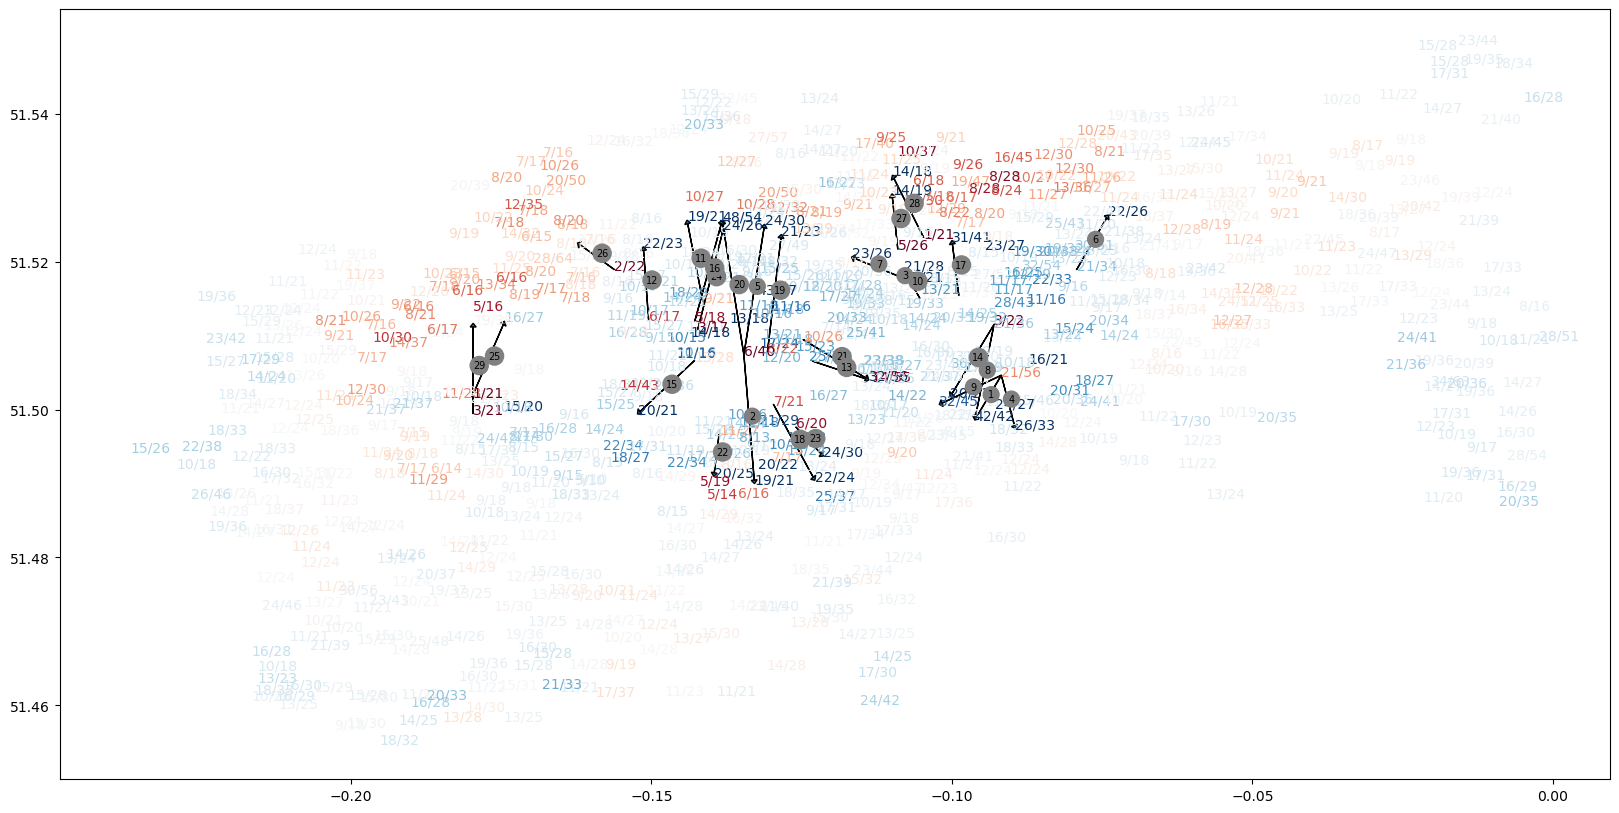
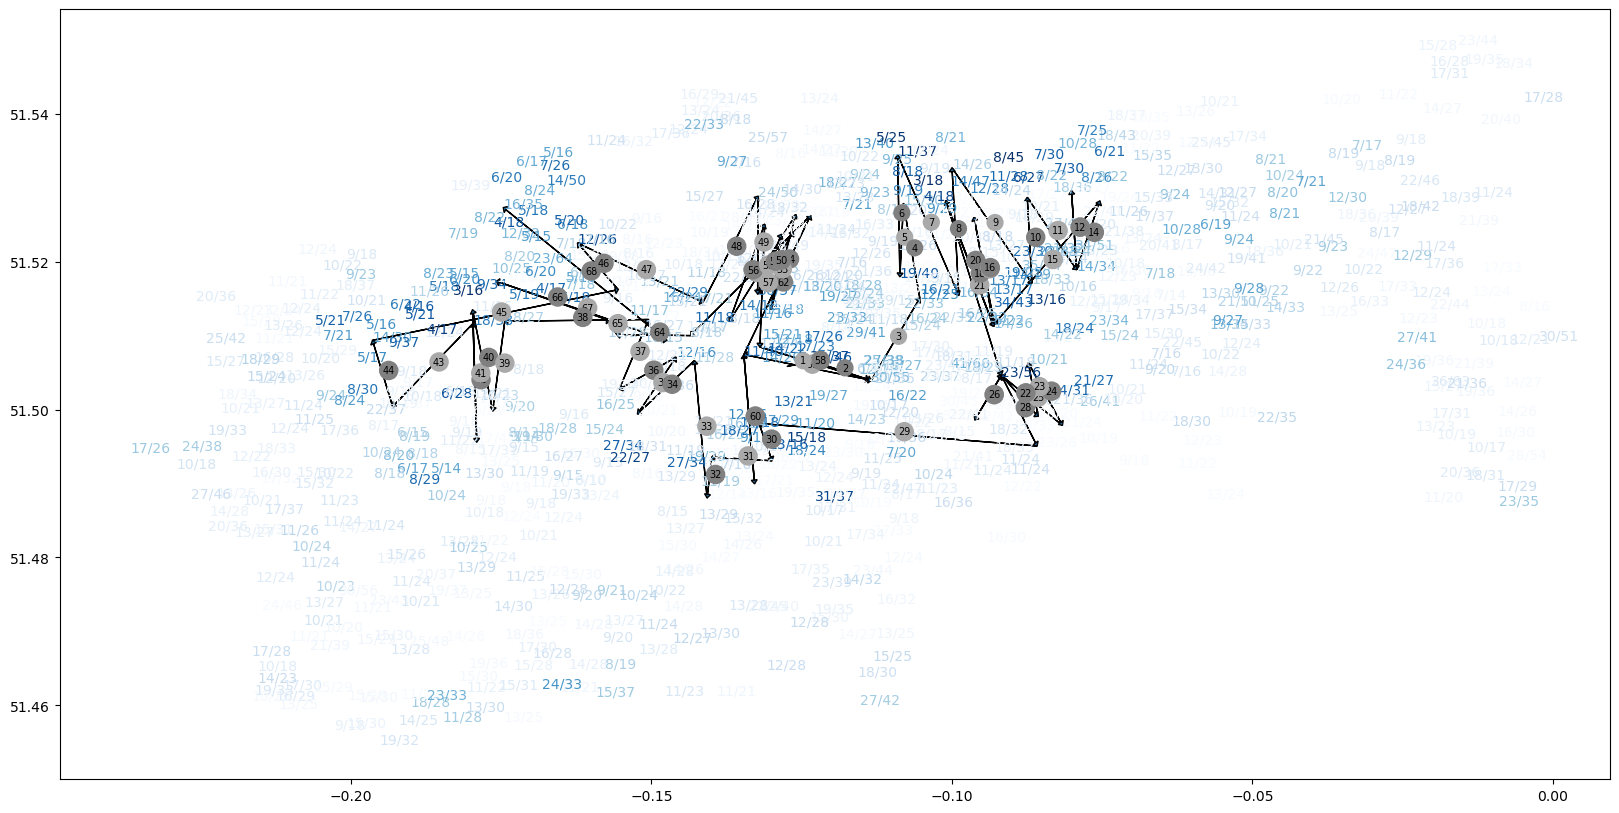
docs: Updated REAME

diff --git a/README.md b/README.md
@@ -2,8 +2,8 @@
 This repository includes the ongoing project of analysing the [BigQuery Santander Cycle Hire Scheme](https://console.cloud.google.com/marketplace/product/greater-london-authority/london-bicycles) dataset to gather some insights and provide useful recommendations to the Greater London Authority. The breakdown provided below depicts the tasks completed so far and the associated files used in attempting those tasks:
 1. **Incorporating borough and ward information to each station**: Using the [Statistical GIS Boundary Files for London](https://data.london.gov.uk/dataset/statistical-gis-boundary-files-london) dataset, containing geographical boundaries for Greater London, the borough and ward of each station in the 'london_bicycles.cycle_stations' table was determined. The Jupyter notebook at [santander_bikes.ipynb](santander_bikes.ipynb) outlines the steps taken to achieve the task.
 2. **Queries on the main dataset**: The main 'london_bicycles.cycle_hire' table, encompassing more than 80 million hires between 2015 and 2023, was then explored with BigQuery, aiming to gain a better understanding of the data. All the queries of the project, from cleaning to data aggreation and manipulation, can be found in the [queries.sql](queries.sql) file.
-3. **Tableau visualisations**: The succeeding visualisations were then constructed, illustrating the overall bike movement among boroughs, the station locations, and the average daily bike change per year at the top 6 stations.
-4. **Relocation recommendations**: The [relocation_plan.ipynb](https://nbviewer.org/github/alex-avv/santander-bikes/blob/main/relocation_plan.ipynb) Jupyter notebook includes the construction of an algorithm to plan the daily manual relocation of the bikes in 2023. This is important to ensure the ongoing operation of the service, as some stations tend to fill up completely within a single day.
+3. **Tableau visualisations**: The succeeding visualisations were then constructed, illustrating the bike movement among boroughs, the station locations, and the average daily bike change per year at the top 6 stations.
+4. **Relocation recommendations**: The [relocation_plan.ipynb](https://nbviewer.org/github/alex-avv/santander-bikes/blob/main/relocation_plan.ipynb) Jupyter notebook includes the construction of an algorithm to plan the daily manual relocation of the bikes in 2023. This is important to ensure the smooth operation of the service, as most stations have an imbalanced daily influx-outflux of bikes. Following the mean daily influxes from 2022 and assuming we can expect similar patterns for 2023, eventually some stations will fill up whereas others, on the contrary, will empty. This will disrupt some trips due to a lack of bikes at pick-up or free docks at drop-off, causing user dissatisfaction and potentially client loss. Therefore, the manual relocation of the bikes is essential to the bike-sharing scheme.
 <div align='center'><img src='map_relocation.png'></div>
 <br />
 <div align='center' class='tableauPlaceholder' id='viz1700481444821' style='position: relative'><noscript><a href='#'><a href='https://public.tableau.com/app/profile/alejandro.avila.carri.n/viz/London-SantanderBikes-2/Sankey'><img alt='Add calcs to handle null values (funnel sankey) ' src='https:&#47;&#47;public.tableau.com&#47;static&#47;images&#47;Lo&#47;London-SantanderBikes-2&#47;Sankey&#47;1_rss.png' style='border: none' /></a></a></noscript><object class='tableauViz'  style='display:none;'><param name='host_url' value='https%3A%2F%2Fpublic.tableau.com%2F' /> <param name='embed_code_version' value='3' /> <param name='site_root' value='' /><param name='name' value='London-SantanderBikes-2&#47;Sankey' /><param name='tabs' value='no' /><param name='toolbar' value='yes' /><param name='static_image' value='https:&#47;&#47;public.tableau.com&#47;static&#47;images&#47;Lo&#47;London-SantanderBikes-2&#47;Sankey&#47;1.png' /> <param name='animate_transition' value='yes' /><param name='display_static_image' value='yes' /><param name='display_spinner' value='yes' /><param name='display_overlay' value='yes' /><param name='display_count' value='yes' /><param name='language' value='en-US' /></object></div>
